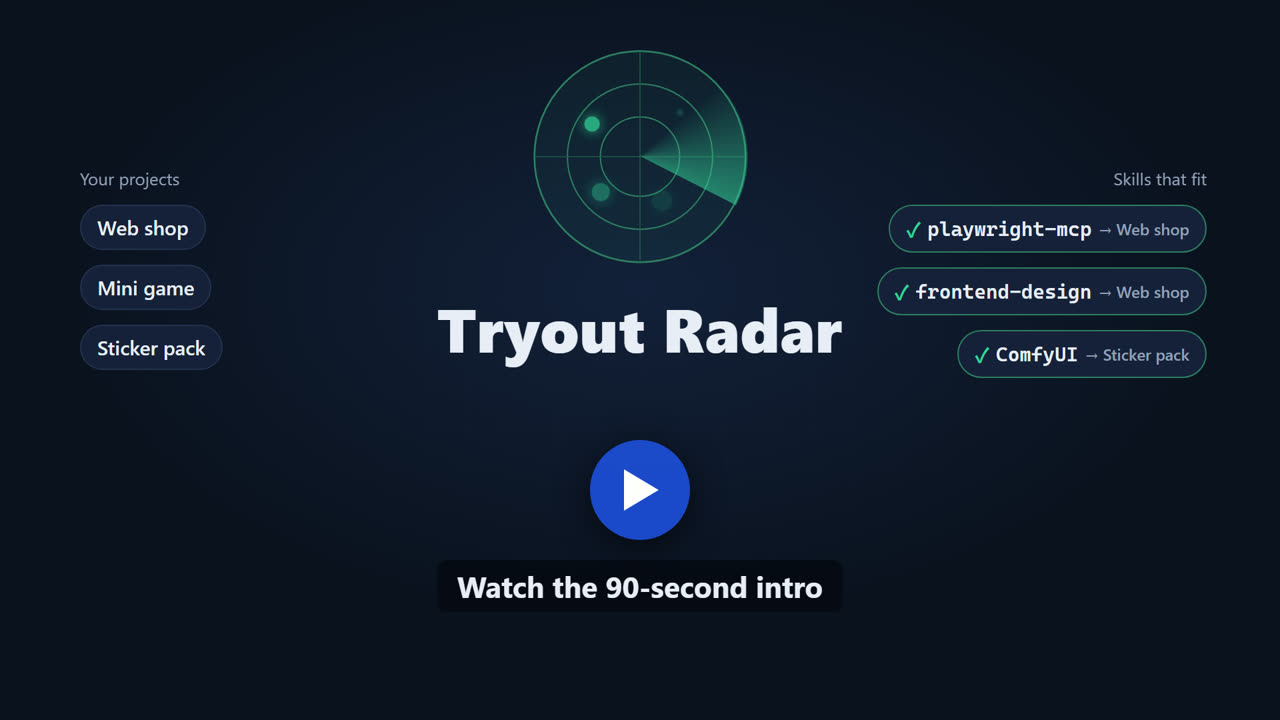
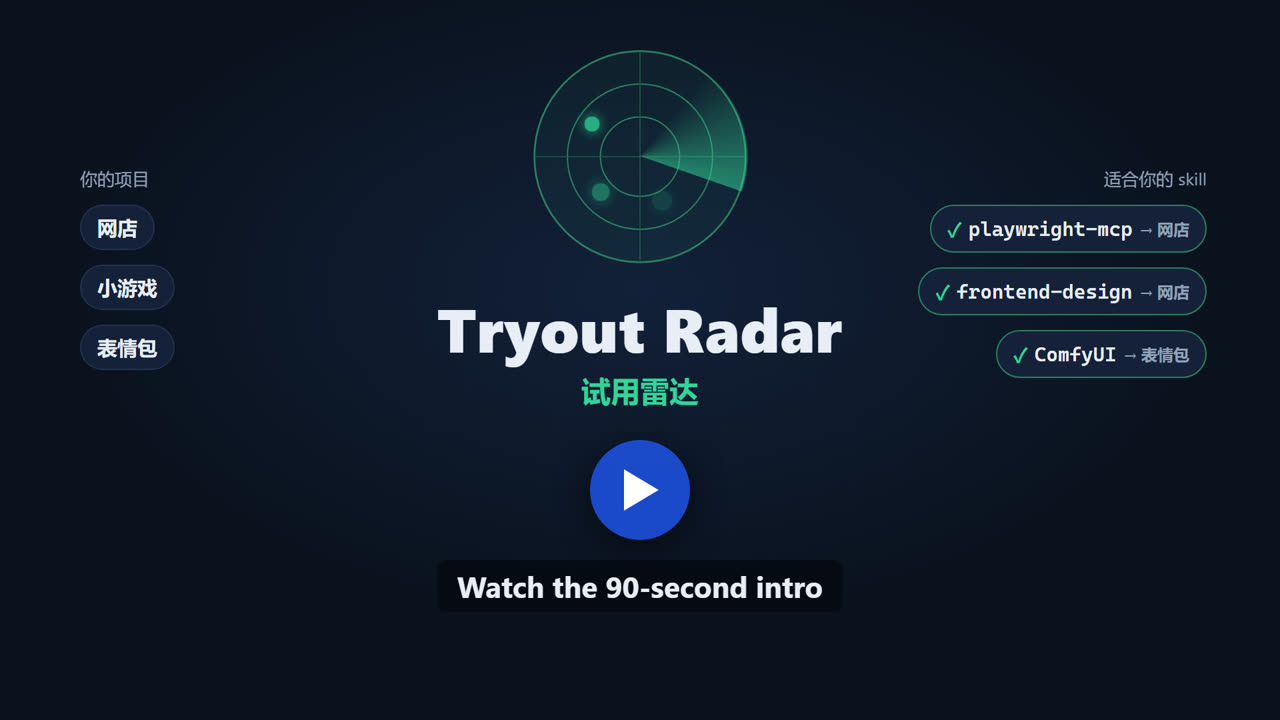
Intro video with English voice-over and Chinese/English subtitles
README and README.zh-CN now link one intro video (tryout-radar-intro.mp4,
attached to the v0.3.0 release) and use its frame as the thumbnail.

diff --git a/README.md b/README.md
@@ -4,9 +4,9 @@
 
 [中文说明](README.zh-CN.md) · [Introduction / 介绍](docs/INTRO.md)
 
-[![Tryout Radar in 90 seconds (video)](docs/media/intro-en.jpg)](https://github.com/alex7-1/tryout-radar/releases/download/v0.3.0/tryout-radar-intro-en.mp4)
+[![Tryout Radar in 90 seconds (video)](docs/media/intro-en.jpg)](https://github.com/alex7-1/tryout-radar/releases/download/v0.3.0/tryout-radar-intro.mp4)
 
-*The 90-second intro video. Also in [Chinese with English subtitles](https://github.com/alex7-1/tryout-radar/releases/download/v0.3.0/tryout-radar-intro-zh.mp4).*
+*The 90-second intro video: English voice-over, Chinese and English subtitles.*
 
 Every day a coding agent (the *scout*) reads GitHub, X and the web for new skills, MCP servers, agent tricks and generation tools, keeps only what would help *your* projects, and says for each one which project it helps, where, and how much effort it takes. You read the digest on your phone. When something looks good you press **Try it in a project**; that night a second agent (the *trial runner*) installs it in a sandbox branch of that project, runs it with the project's own tests, and sends you a report: adopt, don't use, or your call.
 

diff --git a/README.zh-CN.md b/README.zh-CN.md
@@ -4,9 +4,9 @@
 
 [English](README.md) · [介绍 / Introduction](docs/INTRO.md)
 
-[![一分半钟看懂 Tryout Radar（视频）](docs/media/intro-zh.jpg)](https://github.com/alex7-1/tryout-radar/releases/download/v0.3.0/tryout-radar-intro-zh.mp4)
+[![一分半钟看懂 Tryout Radar（视频）](docs/media/intro-zh.jpg)](https://github.com/alex7-1/tryout-radar/releases/download/v0.3.0/tryout-radar-intro.mp4)
 
-*一分半钟的介绍视频（中文配音，中英字幕）。也有 [英文配音版](https://github.com/alex7-1/tryout-radar/releases/download/v0.3.0/tryout-radar-intro-en.mp4)。*
+*一分半钟的介绍视频：英文配音，中英双语字幕。*
 
 每天，一个编程 agent（*侦察员*）在 GitHub、X 和网上找新出的 skill、MCP、agent 用法和生成工具，只留下对*你的*项目真正有用的，并写清楚每条对哪个项目有用、用在哪里、上手要多久。你在手机上看日报，看到好用的就点 **交给项目试**；当晚另一个 agent（*试用员*）在那个项目的单独分支里装上、跑项目自己的测试，然后把报告发给你：建议采纳、不建议用，还是要你决定。
 
